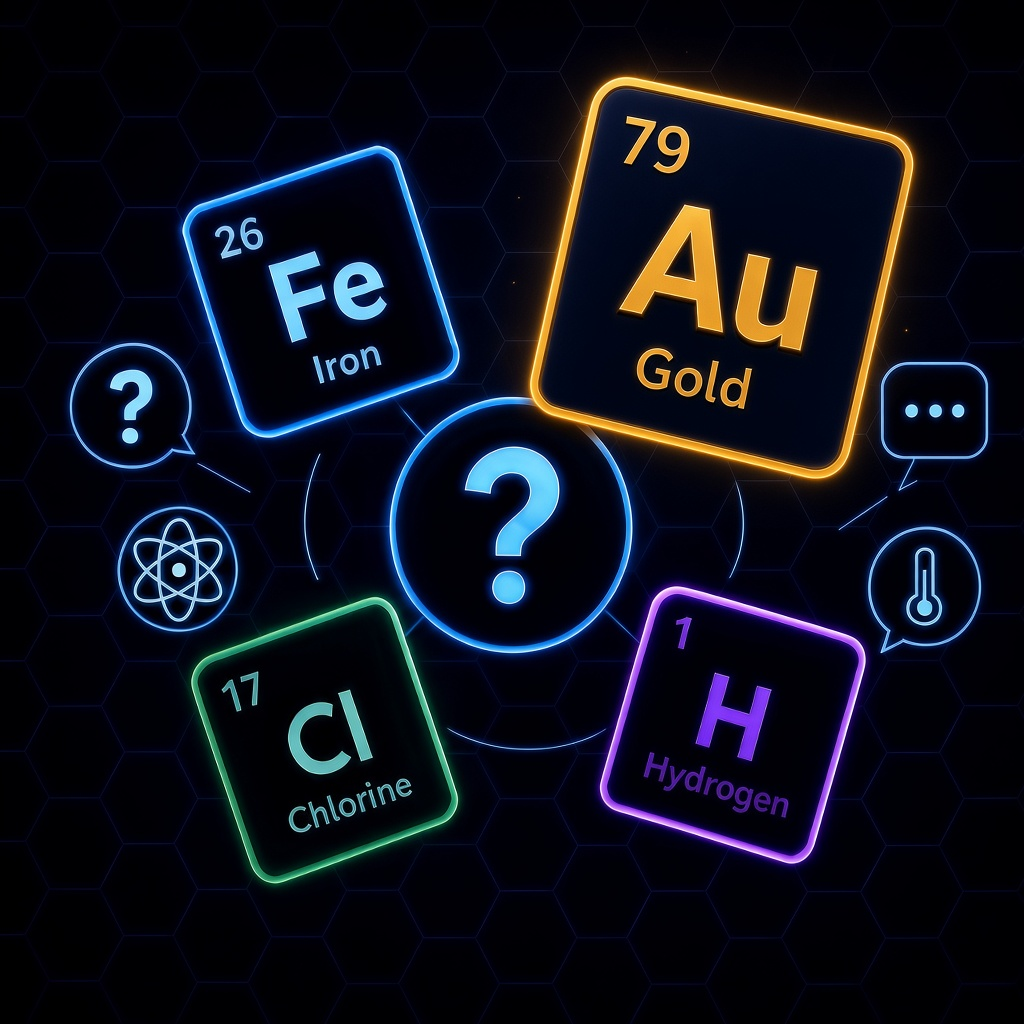
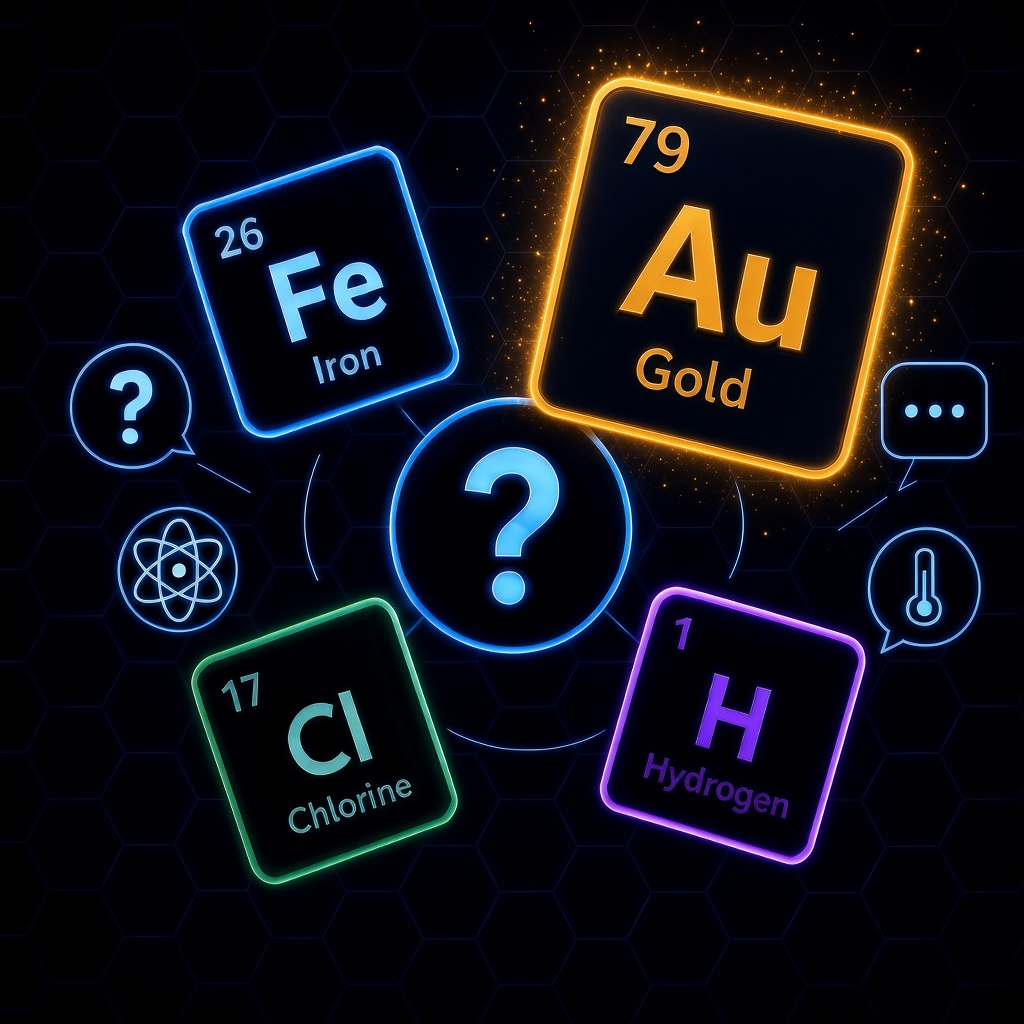
Add the other modes' gold sparkle behind Mixed Au.

diff --git a/CHANGELOG.md b/CHANGELOG.md
@@ -7,6 +7,12 @@ and this project adheres to [Semantic Versioning](https://semver.org/spec/v2.0.0
 
 ## [Unreleased]
 
+## [0.23.22] - 2026-09-16
+
+### Changed
+
+- Mixed icon’s gold Au tile has the same sparkle as the other modes.
+
 ## [0.23.21] - 2026-09-16
 
 ### Changed
